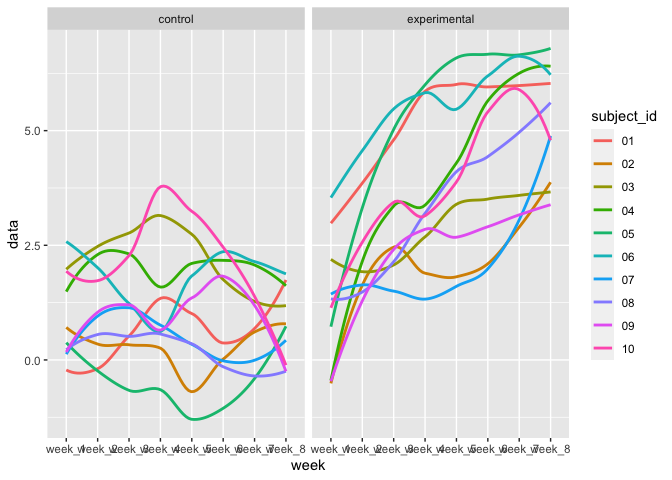
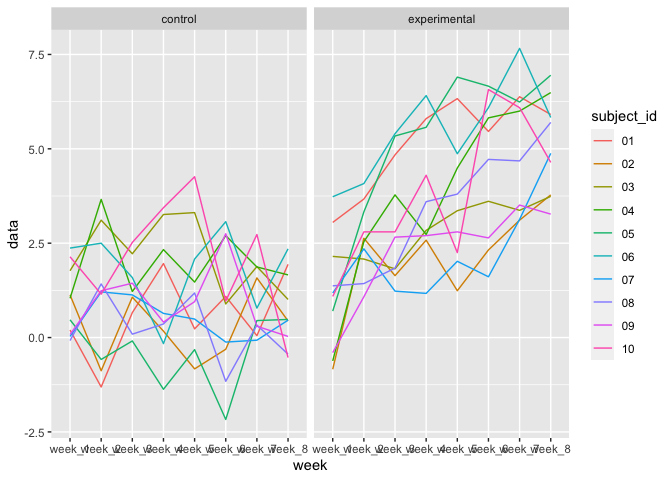
problem 2 plot fix

diff --git a/p8105_hw5_xt2288.md b/p8105_hw5_xt2288.md
@@ -47,7 +47,7 @@ long_study =
 
 long_study |>
   ggplot(aes(x = week, y = data, group = subject_id, color = subject_id)) + 
-  geom_smooth(se = FALSE) +
+  geom_line() +
   facet_grid(~arm)
 ```
 
